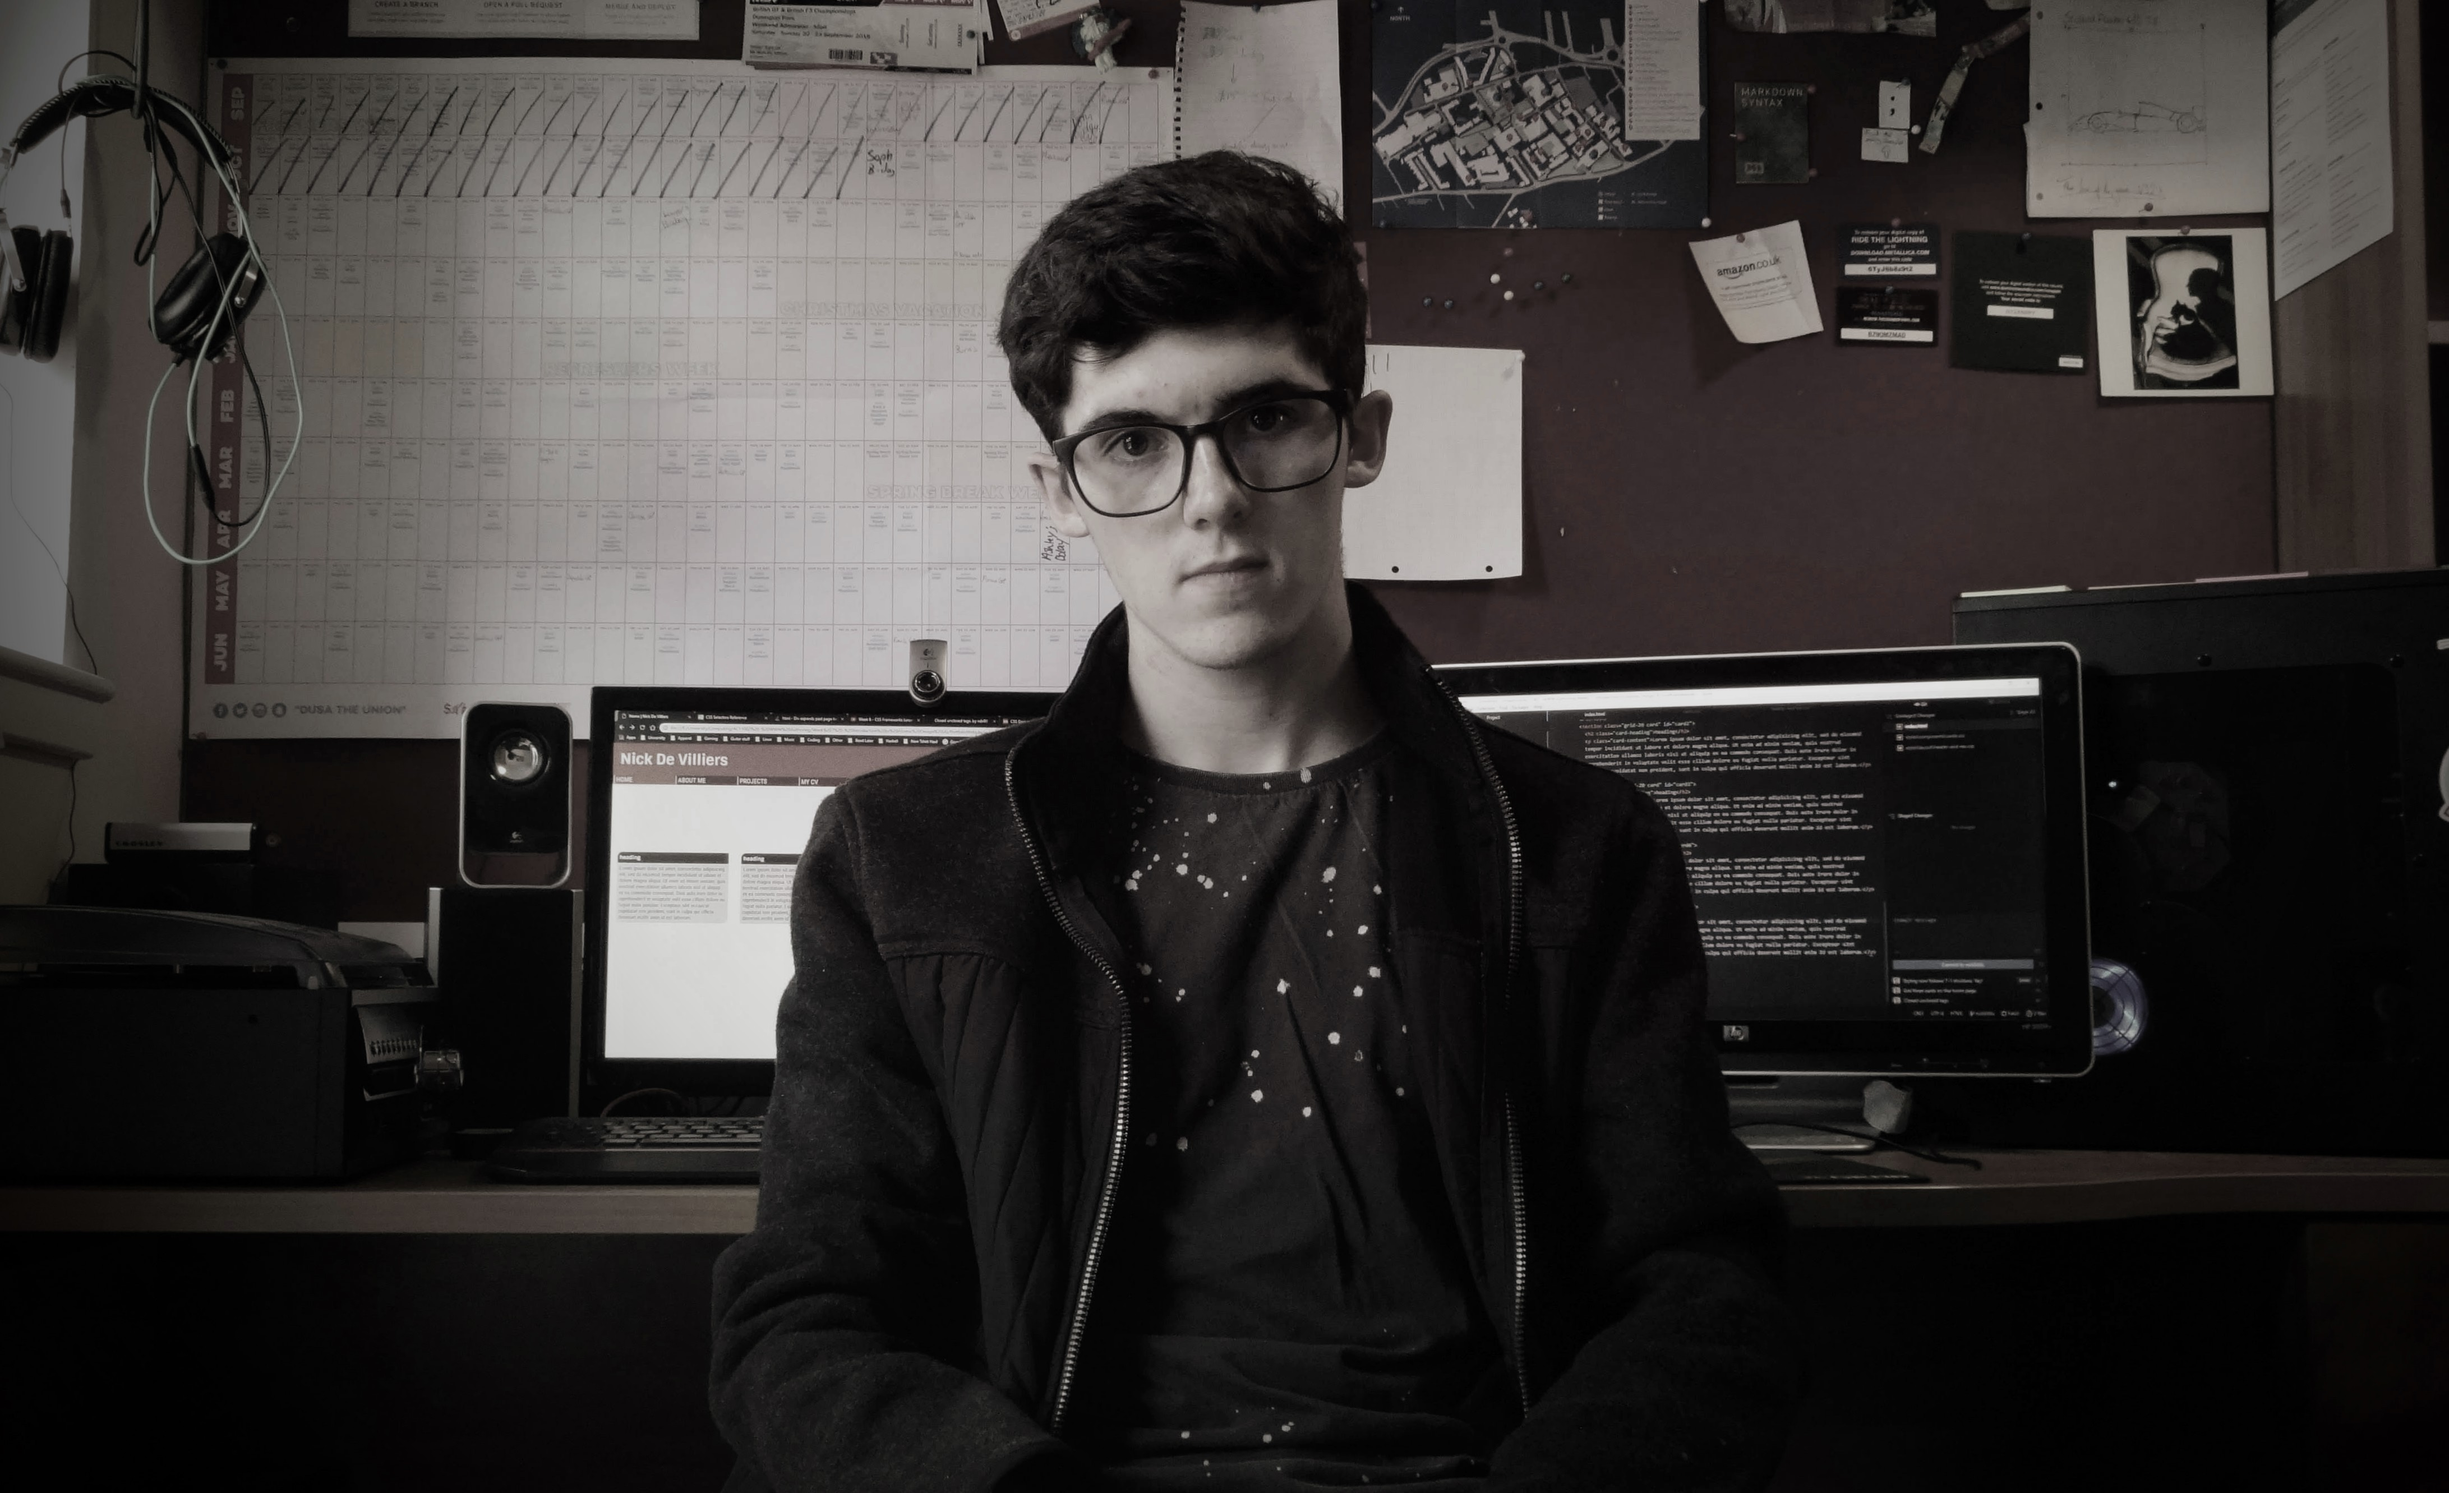
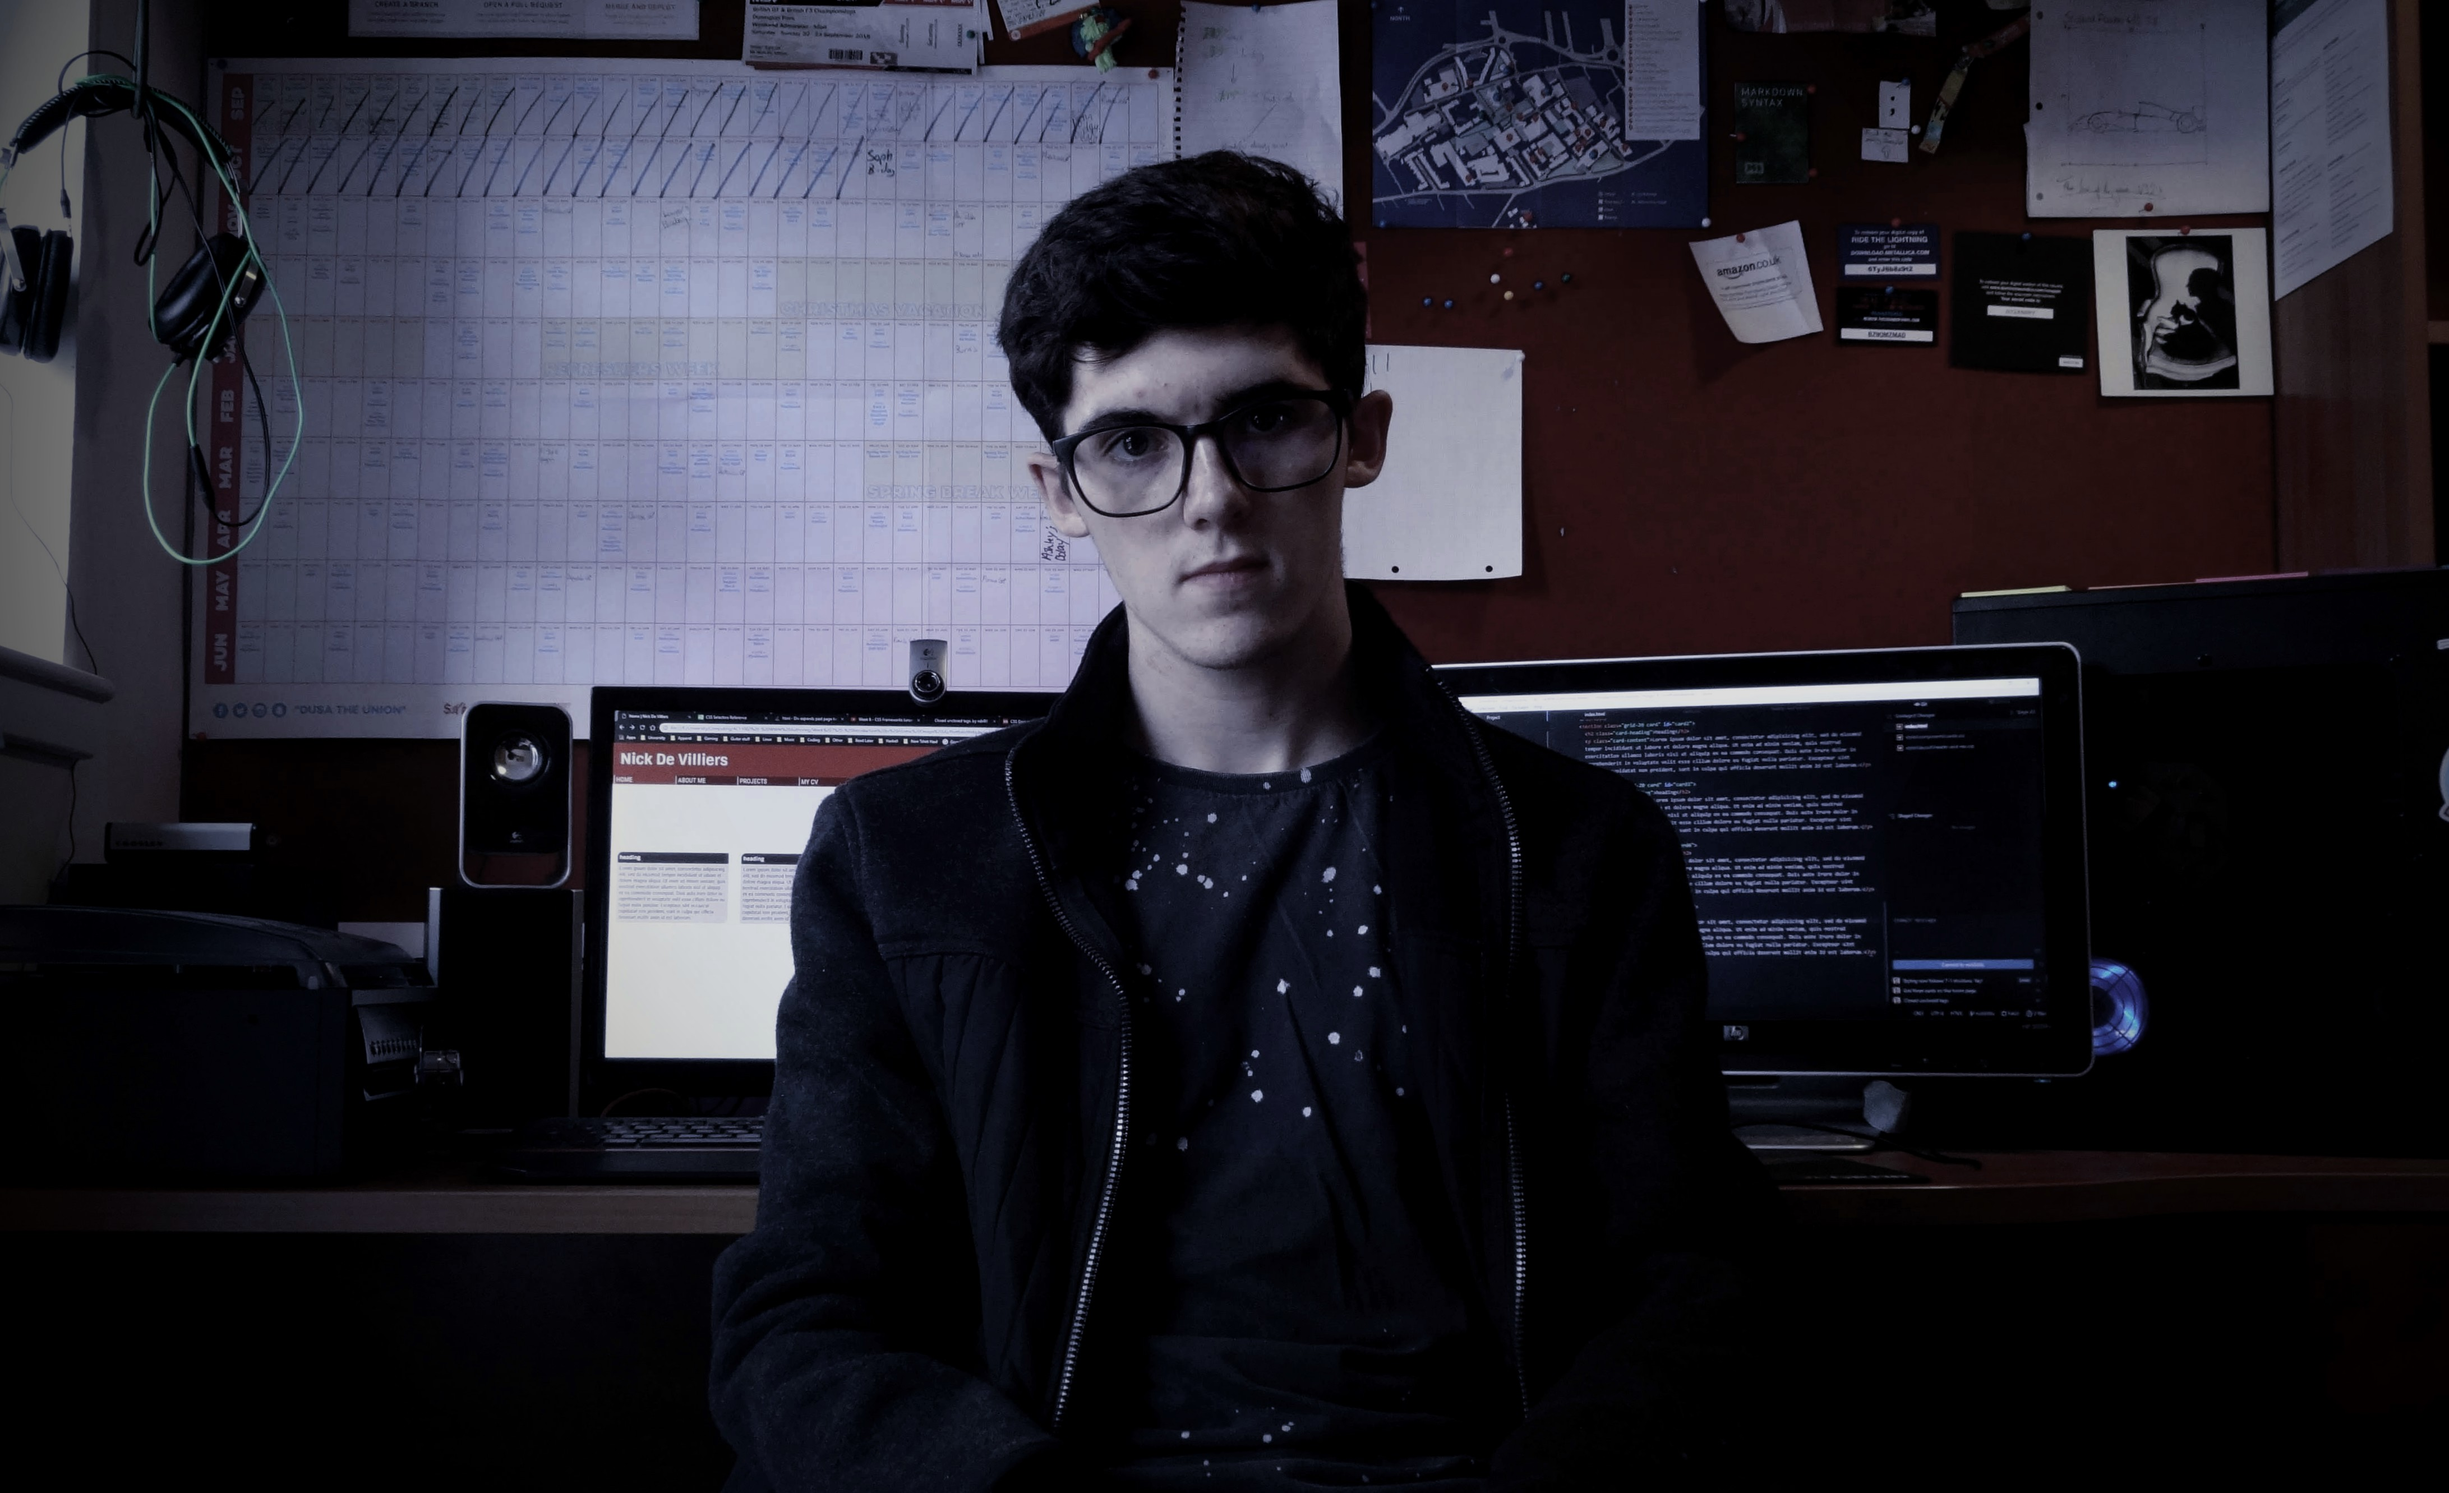
New colours for --mono-light and --mono-dark. Working on getting the cards and background to look nice on mobile.

diff --git a/styles/abstracts/variables.css b/styles/abstracts/variables.css
@@ -1,10 +1,9 @@
 /* COLOURS AND VARS*/
 :root{
   --main-colour: #DD0000;
-  --secondary-colour: #870808;
-  --mono-dark: #443737;
-  --dark-maybe: #253751;
-  --mono-light: #DDD0D0;
+  --secondary-colour: #630505;
+  --mono-dark: #253751;
+  --mono-light: #C0C0D0;
   --bg-colour: #FFFFFF;
 	/* I know these two are literally black and white but I don't know if future-me
 	wants to change the text colours, so I've made it easier for him. Same with

diff --git a/styles/layout/header-and-nav.css b/styles/layout/header-and-nav.css
@@ -1,12 +1,14 @@
 /* CLASS-SPECIFIC STYLING */
 
 .grid-container{ /* Grid container always fills screen */
-  max-width: 100%;
+  /* max-width: 100%; */
 }
 
 .header{
+  background-image: linear-gradient(#990000, var(--main-colour));
   background-color: var(--main-colour);
 	padding: 0;
+  max-width: 100%;
 }
 
 .title{
@@ -19,6 +21,7 @@
 .menu{
 	margin: 0;
   padding: 0;
+  max-width: 100%;
   background-color: var(--secondary-colour);
 }
 

diff --git a/styles/components/cards.css b/styles/components/cards.css
@@ -2,7 +2,8 @@
   margin: 0;
   padding: 0;
   max-width: 100%;
-  margin-top: 12%;
+  margin-top: 15%;
+  align-items: center;
 }
 
 .card{
